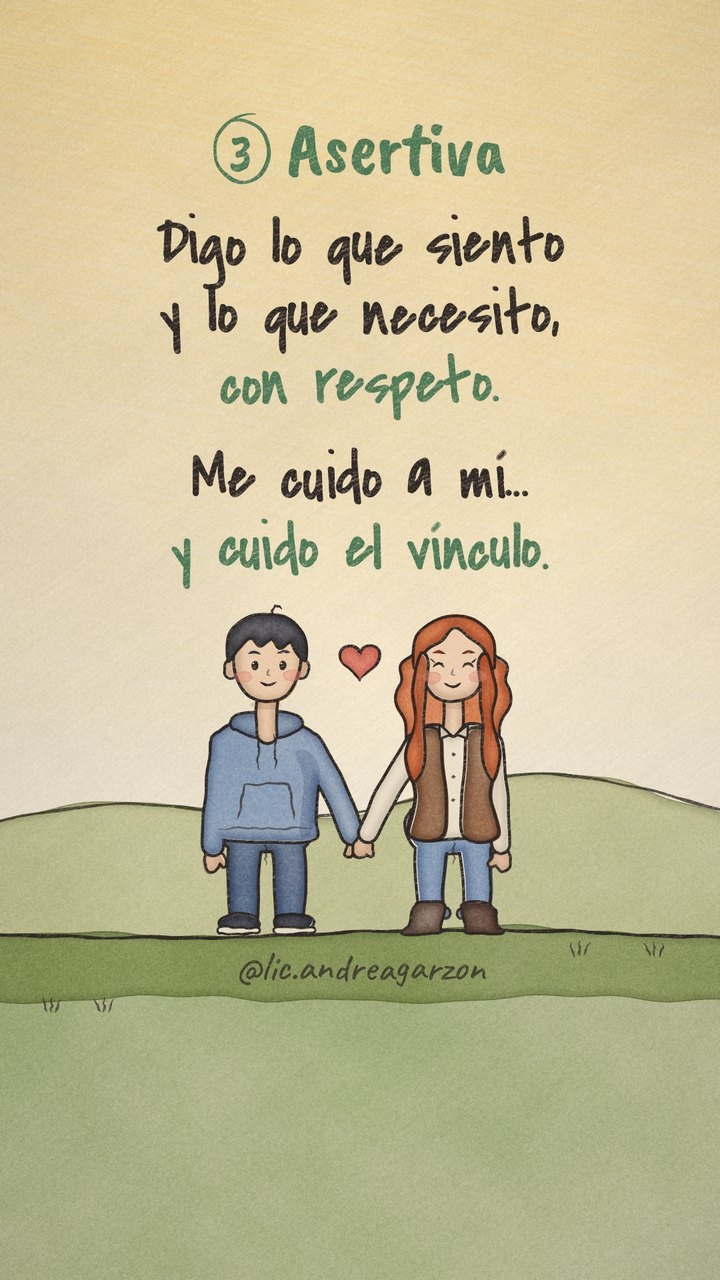
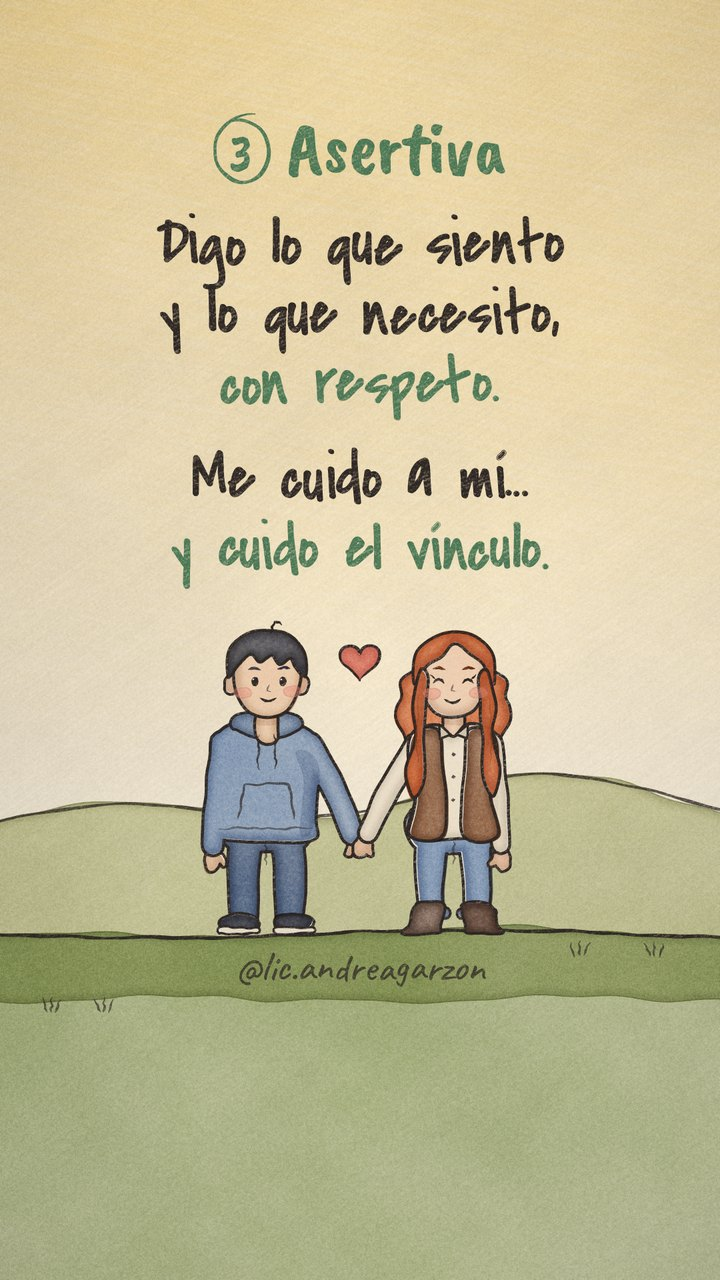
Acorta el cuello de los personajes humanos
Claude-Session: https://claude.ai/code/session_016CLd9P9Y6Pj6yj4zcJCb7E

Changed region(s): [[0.55, 0.4688, 0.7333, 0.625], [0.3056, 0.4688, 0.4278, 0.5938]]

diff --git a/reel/people.py b/reel/people.py
@@ -185,7 +185,7 @@ def person2(ctx, x, yg, s, cfg, mood, key, arms=('rest', 'rest'), lean=0.0, look
 
     hip_y = -165
     sh_y = -312 + shrink * 6
-    head_c = np.array([0.0, sh_y - 96 + shrink * 16])
+    head_c = np.array([0.0, sh_y - 72 + shrink * 12])
     SW = 56 if girl else 64       # shoulder joint x
     skin, top = cfg['skin'], cfg['top']
     sleeve_col = top if cfg['top_style'] != 'vest' else top
@@ -277,7 +277,7 @@ def person2(ctx, x, yg, s, cfg, mood, key, arms=('rest', 'rest'), lean=0.0, look
             ctx.line(T([p0, p0 + d * 7]), 2.6 * s, key=(key, 'kn', j, k), alpha=0.7)
 
     # ---------- neck (under the collar)
-    neck = chain([[0, sh_y + 12], [0, head_c[1] + 30]], [14 if girl else 16])
+    neck = chain([[0, sh_y + 12], [0, head_c[1] + 34]], [16 if girl else 18])
     if cfg['top_style'] != 'hoodie':
         shape(ctx, [T(neck)], skin, (key, 'neck'), width=4.4 * s)
 
